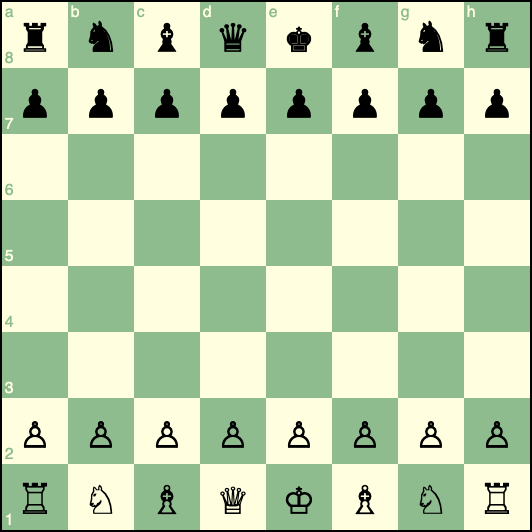
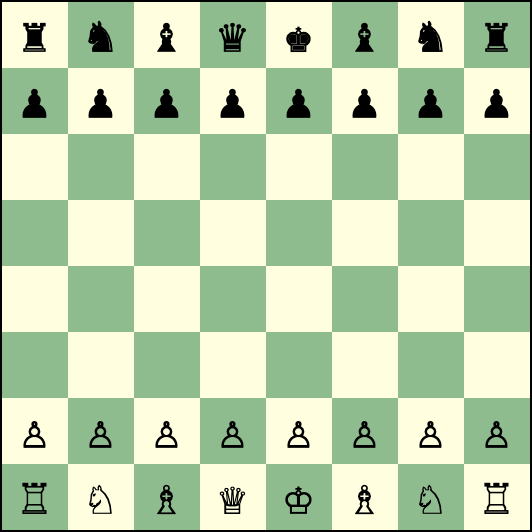
Hide coordinates until you select or hover over a square.

diff --git a/client/tests/square.js b/client/tests/square.js
@@ -6,8 +6,8 @@ const tests = {};
 // This also tests Piece.render().
 tests['Square.render() works.'] = () => {
     const tests = [
-        [['a1', 'dark', 'WR', false, []], '<td id="a1" class="WR dark"><div class="coord full">a1</div><div class="coord rank">1</div>&#9814;</td>'],
-        [['a6', 'light', '', false, ['a7', 'a8']], '<td id="a6" class=" light from-a7 from-a8"><div class="coord full">a6</div><div class="coord rank">6</div></td>'],
+        [['a1', 'dark', 'WR', false, []], '<td id="a1" class="WR dark"><div class="coord">a1</div>&#9814;</td>'],
+        [['a6', 'light', '', false, ['a7', 'a8']], '<td id="a6" class=" light from-a7 from-a8"><div class="coord">a6</div></td>'],
     ];
     return Test.run(Square.render, tests);
 };

diff --git a/client/square.js b/client/square.js
@@ -12,16 +12,8 @@ export default class Square {
                 classes.push(`from-${square}`);
             }
         }
-        let file = '';
-        if (square[1] === '8') {
-            file = `<div class="coord file">${square[0]}</div>`;
-        }
-        let rank = '';
-        if (square[0] === 'a') {
-            rank = `<div class="coord rank">${square[1]}</div>`;
-        }
-        const full = `<div class="coord full">${square}</div>`;
-        return `<td id="${square}" class="${classes.join(' ')}">${file}${full}${rank}${symbol}</td>`;
+        const coord = `<div class="coord">${square}</div>`;
+        return `<td id="${square}" class="${classes.join(' ')}">${coord}${symbol}</td>`;
     }
 
     static fileDown(file) {

diff --git a/client/main.css b/client/main.css
@@ -42,24 +42,14 @@ td {
 }
 
 td .coord {
+    display: none;
     font-size: 33%;
     position: absolute;
-}
-td:hover .coord.full {
-    display: block;
-}
-td .coord.full {
-    display: none;
-    bottom: 2%;
-    right: 4%;
-}
-td .coord.file {
     top: 2%;
     left: 4%;
 }
-td .coord.rank {
-    bottom: 2%;
-    left: 4%;
+td:hover .coord {
+    display: block;
 }
 td.dark .coord {
     color: lightyellow;
